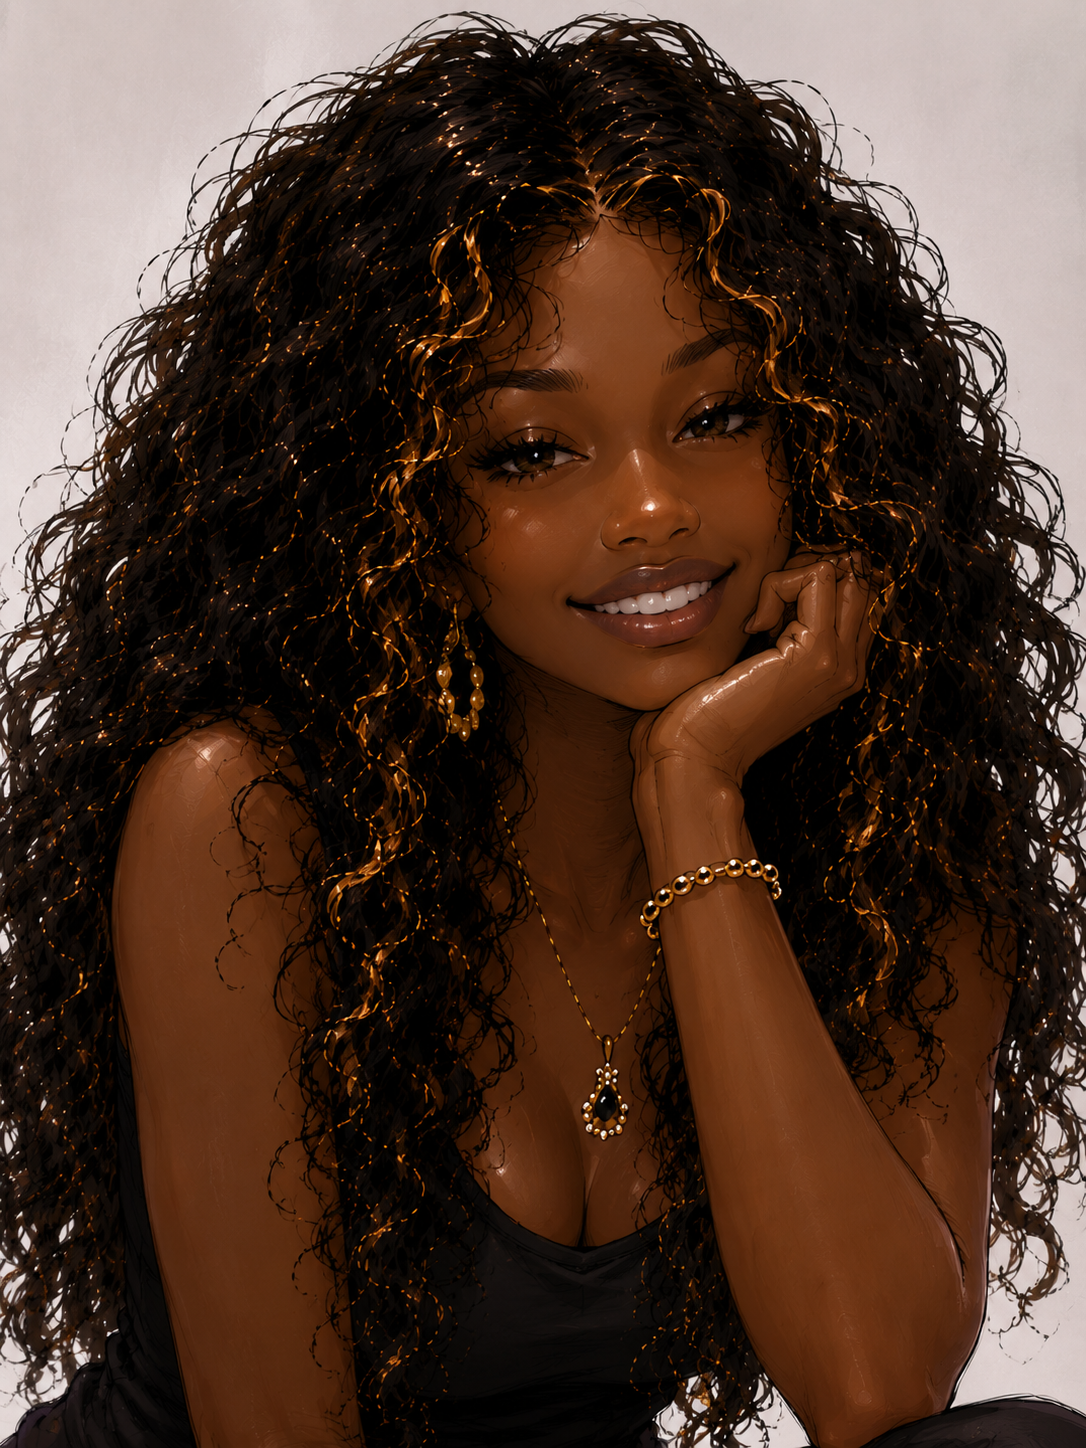
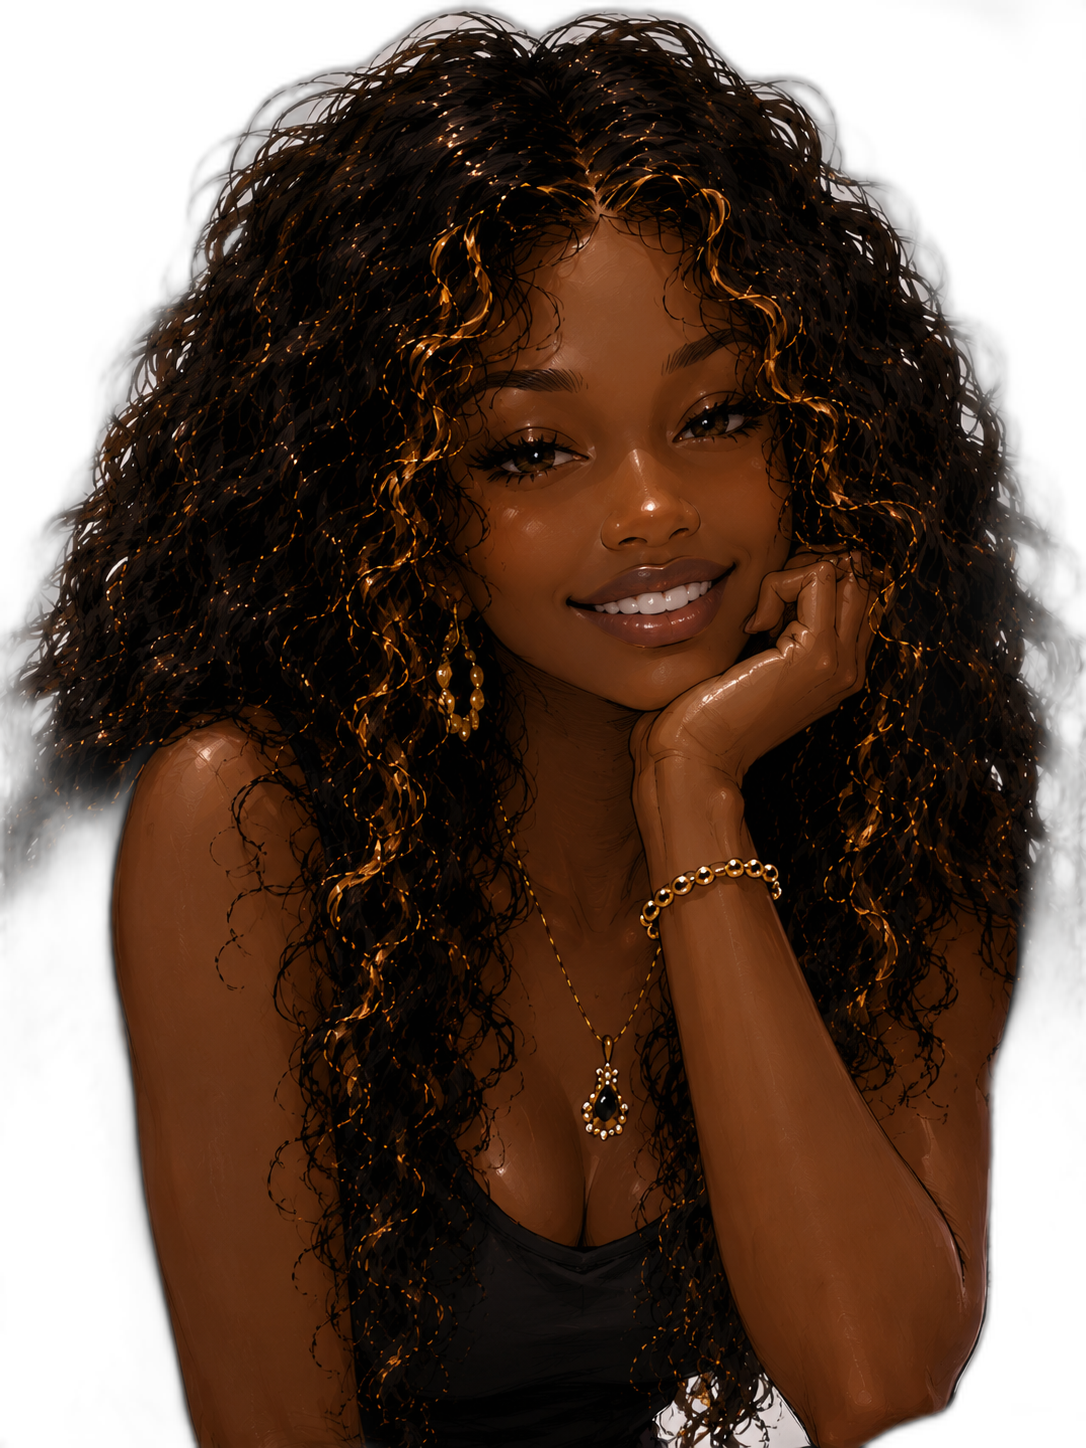
Add Night emotion portrait set + transparent cutouts for all characters
- Add 20 Night emotion portrait PNGs (neutral, softsmile, happy, thinking,
  tired, annoyed, sad, overwhelmed, protective, lonely, hopeful, relaxed,
  listening/music-on, writing, window/late-night, playful, hurting,
  inhishead, in-love, plus fullbody already committed)
- All portraits are RGBA transparent cutouts cropped from Night's
  reference sheets using rembg AI background removal + flood-fill
- Window portrait preserves the city-lights scene as the background
  (Night is inseparable from the dark window context)
- Overwrite Raylene, Rylane, Cloud portrait PNGs with transparent
  RGBA versions (rembg-processed, replacing flat RGB originals)
- Update constants/theme.ts Night Avatar section: replace Raylene
  fallbacks with real Night require() constants; wire all 20 emotions
  into IMAGES export and AVATARS.night record

Claude-Session: https://claude.ai/code/session_01TME6VyQLa2MQdTor1R2Hav

Changed region(s): [[0.0, 0.0, 1.0, 1.0]]

diff --git a/constants/theme.ts b/constants/theme.ts
@@ -90,13 +90,32 @@ const bgNightRoomDeepNight = require("../assets/images/bg-night-room-deep-night.
 const bgNightRoomRain      = require("../assets/images/bg-night-room-rain.png");
 
 // ── Night Avatar ───────────────────────────────────────────────────────────
-const nightFullbody = require("../assets/images/night-fullbody.png");
-// Portraits ship separately (night-neutral etc.) — using Raylene fallbacks until then
-const nightAvatarNeutral  = rayleneWindowRainy;
-const nightAvatarHappy    = rayleneNightWindow;
-const nightAvatarThinking = rayleneThinking;
-const nightAvatarWriting  = rayleneWriting;
-const nightAvatarWindow   = rayleneWindowRainy;
+const nightFullbody    = require("../assets/images/night-fullbody.png");
+const nightNeutral     = require("../assets/images/night-neutral.png");
+const nightSoftsmile   = require("../assets/images/night-softsmile.png");
+const nightHappy       = require("../assets/images/night-happy.png");
+const nightThinking    = require("../assets/images/night-thinking.png");
+const nightTired       = require("../assets/images/night-tired.png");
+const nightAnnoyed     = require("../assets/images/night-annoyed.png");
+const nightSad         = require("../assets/images/night-sad.png");
+const nightOverwhelmed = require("../assets/images/night-overwhelmed.png");
+const nightProtective  = require("../assets/images/night-protective.png");
+const nightLonely      = require("../assets/images/night-lonely.png");
+const nightHopeful     = require("../assets/images/night-hopeful.png");
+const nightRelaxed     = require("../assets/images/night-relaxed.png");
+const nightListening   = require("../assets/images/night-listening.png");
+const nightWriting     = require("../assets/images/night-writing.png");
+const nightWindow      = require("../assets/images/night-window.png");
+const nightPlayful     = require("../assets/images/night-playful.png");
+const nightHurting     = require("../assets/images/night-hurting.png");
+const nightInHisHead   = require("../assets/images/night-inhishead.png");
+const nightInLove      = require("../assets/images/night-in-love.png");
+
+const nightAvatarNeutral  = nightNeutral;
+const nightAvatarHappy    = nightSoftsmile;
+const nightAvatarThinking = nightThinking;
+const nightAvatarWriting  = nightWriting;
+const nightAvatarWindow   = nightWindow;
 const nightAvatarFullbody = nightFullbody;
 
 // ── Parent Room Backgrounds ────────────────────────────────────────────────
@@ -217,14 +236,35 @@ export const IMAGES = {
   cloudAvatarWindow,
   cloudAvatarFullbody,
 
-  // Night Avatars (fallbacks until real art ships)
+  // Night Portraits (real assets)
+  nightFullbody,
+  nightNeutral,
+  nightSoftsmile,
+  nightHappy,
+  nightThinking,
+  nightTired,
+  nightAnnoyed,
+  nightSad,
+  nightOverwhelmed,
+  nightProtective,
+  nightLonely,
+  nightHopeful,
+  nightRelaxed,
+  nightListening,
+  nightWriting,
+  nightWindow,
+  nightPlayful,
+  nightHurting,
+  nightInHisHead,
+  nightInLove,
+
+  // Night Avatars
   nightAvatarNeutral,
   nightAvatarHappy,
   nightAvatarThinking,
   nightAvatarWriting,
   nightAvatarWindow,
   nightAvatarFullbody,
-  nightFullbody,
 
   // Scene composites
   rayleneRoomDayScene,
@@ -313,12 +353,26 @@ export const AVATARS: Record<string, Record<string, any>> = {
     fullbody: IMAGES.cloudAvatarFullbody,
   },
   night: {
-    neutral:  IMAGES.nightAvatarNeutral,
-    happy:    IMAGES.nightAvatarHappy,
-    thinking: IMAGES.nightAvatarThinking,
-    writing:  IMAGES.nightAvatarWriting,
-    window:   IMAGES.nightAvatarWindow,
-    fullbody: IMAGES.nightAvatarFullbody,
+    neutral:   IMAGES.nightNeutral,
+    happy:     IMAGES.nightSoftsmile,
+    thinking:  IMAGES.nightThinking,
+    writing:   IMAGES.nightWriting,
+    window:    IMAGES.nightWindow,
+    fullbody:  IMAGES.nightFullbody,
+    softsmile: IMAGES.nightSoftsmile,
+    tired:     IMAGES.nightTired,
+    annoyed:   IMAGES.nightAnnoyed,
+    sad:       IMAGES.nightSad,
+    overwhelmed: IMAGES.nightOverwhelmed,
+    protective:  IMAGES.nightProtective,
+    lonely:    IMAGES.nightLonely,
+    hopeful:   IMAGES.nightHopeful,
+    relaxed:   IMAGES.nightRelaxed,
+    listening: IMAGES.nightListening,
+    playful:   IMAGES.nightPlayful,
+    hurting:   IMAGES.nightHurting,
+    inhishead: IMAGES.nightInHisHead,
+    inlove:    IMAGES.nightInLove,
   },
 };
 
